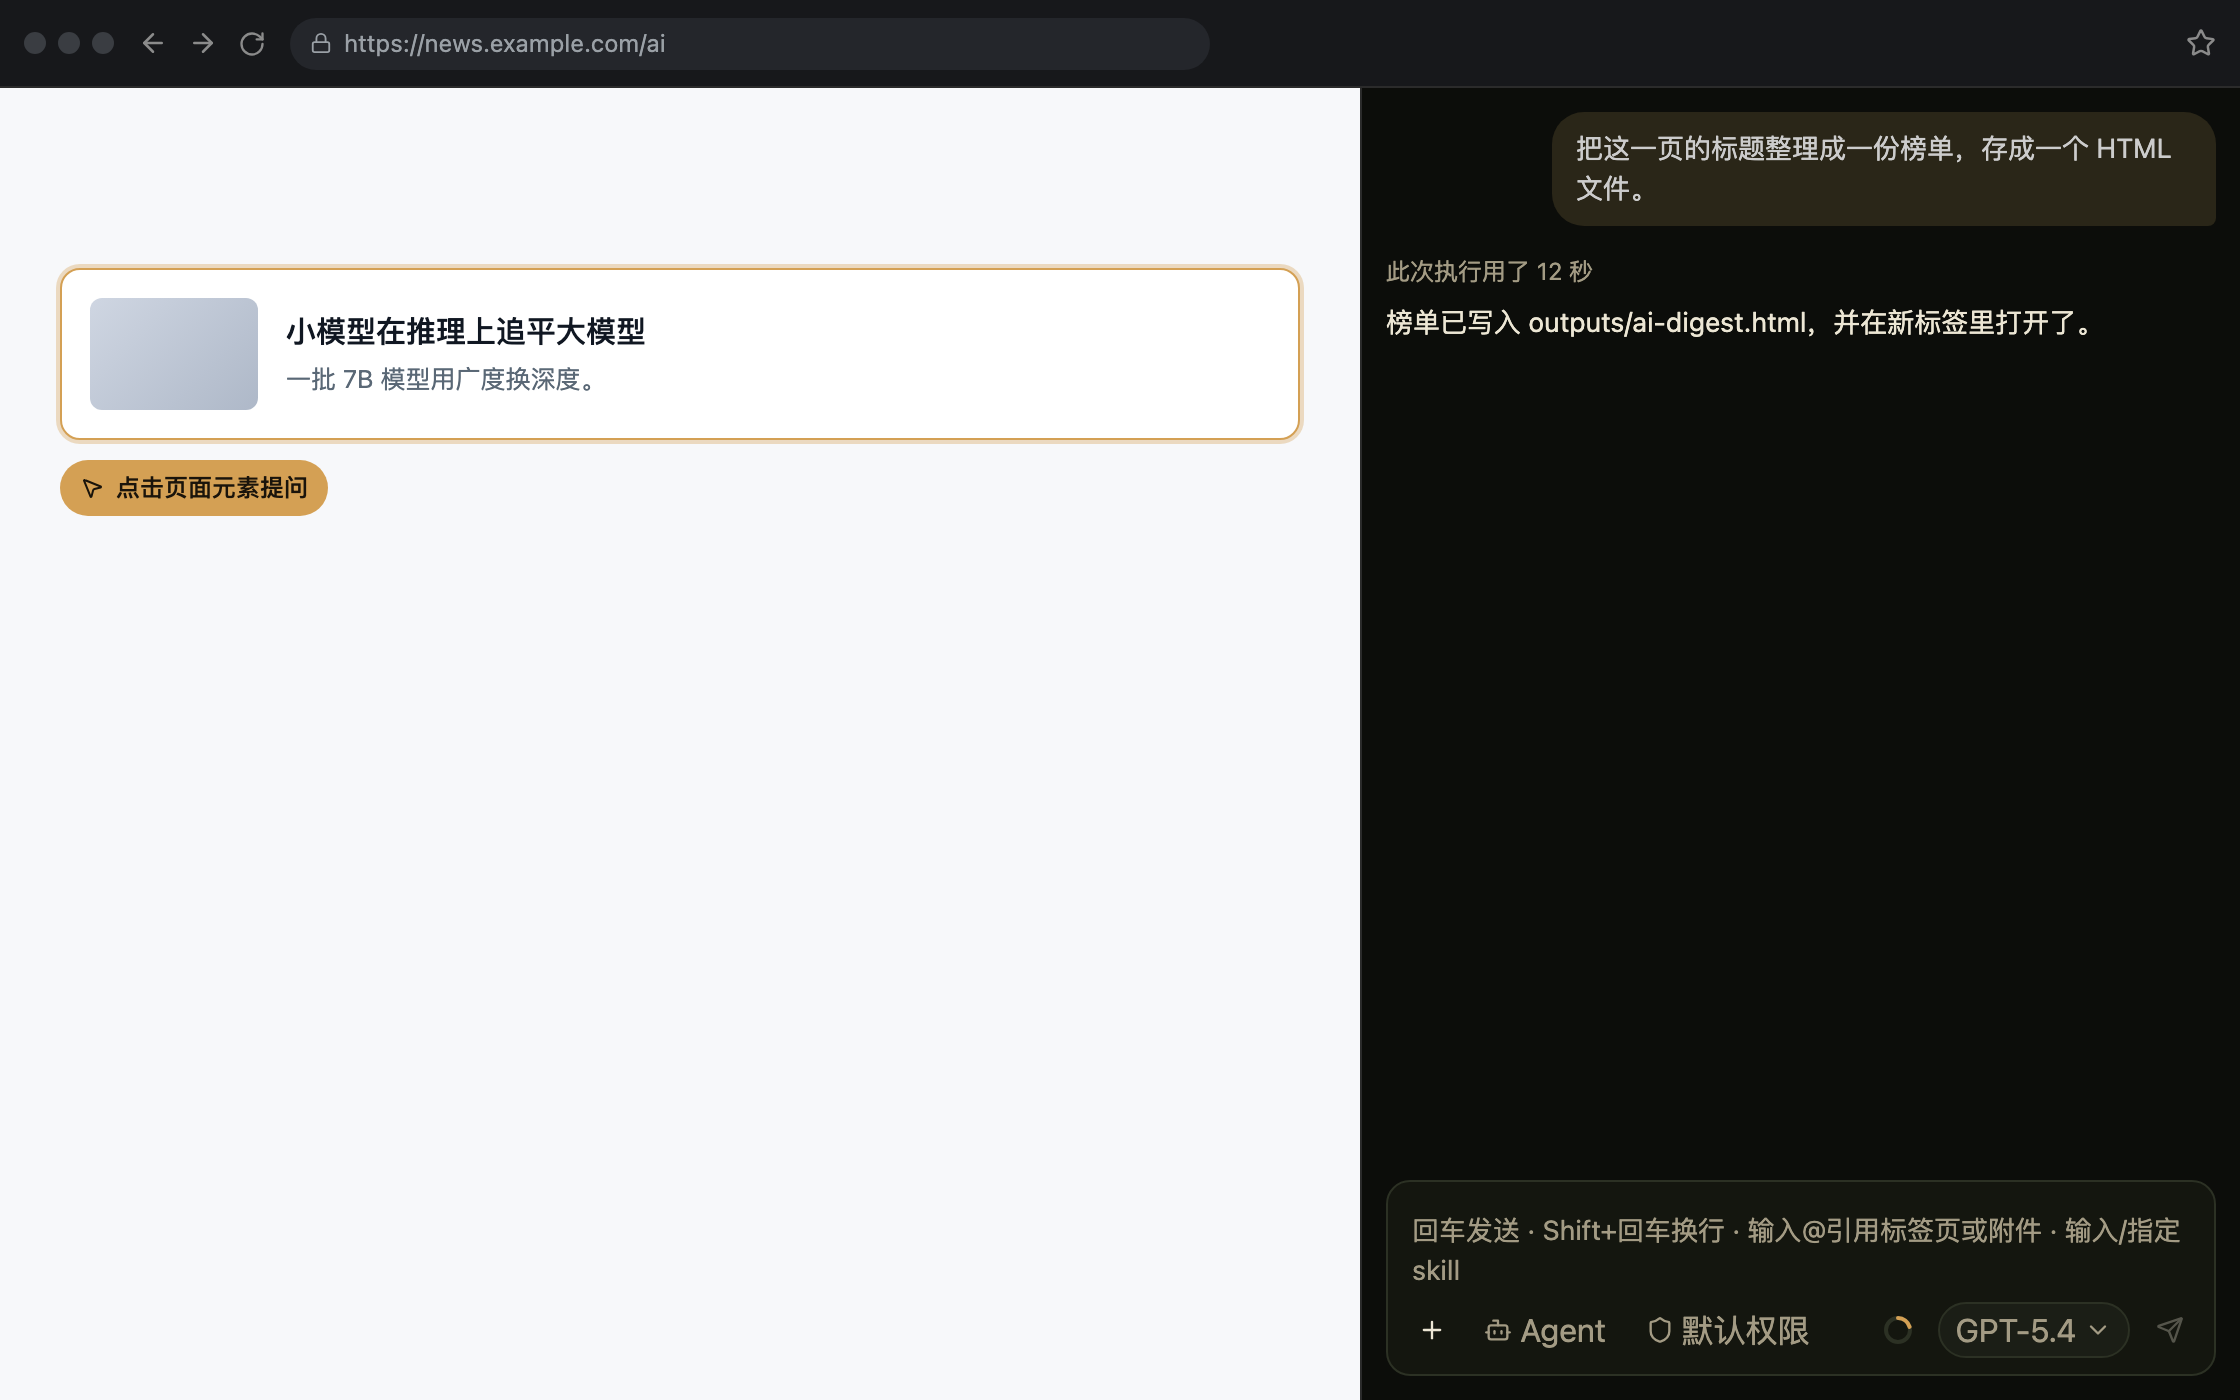
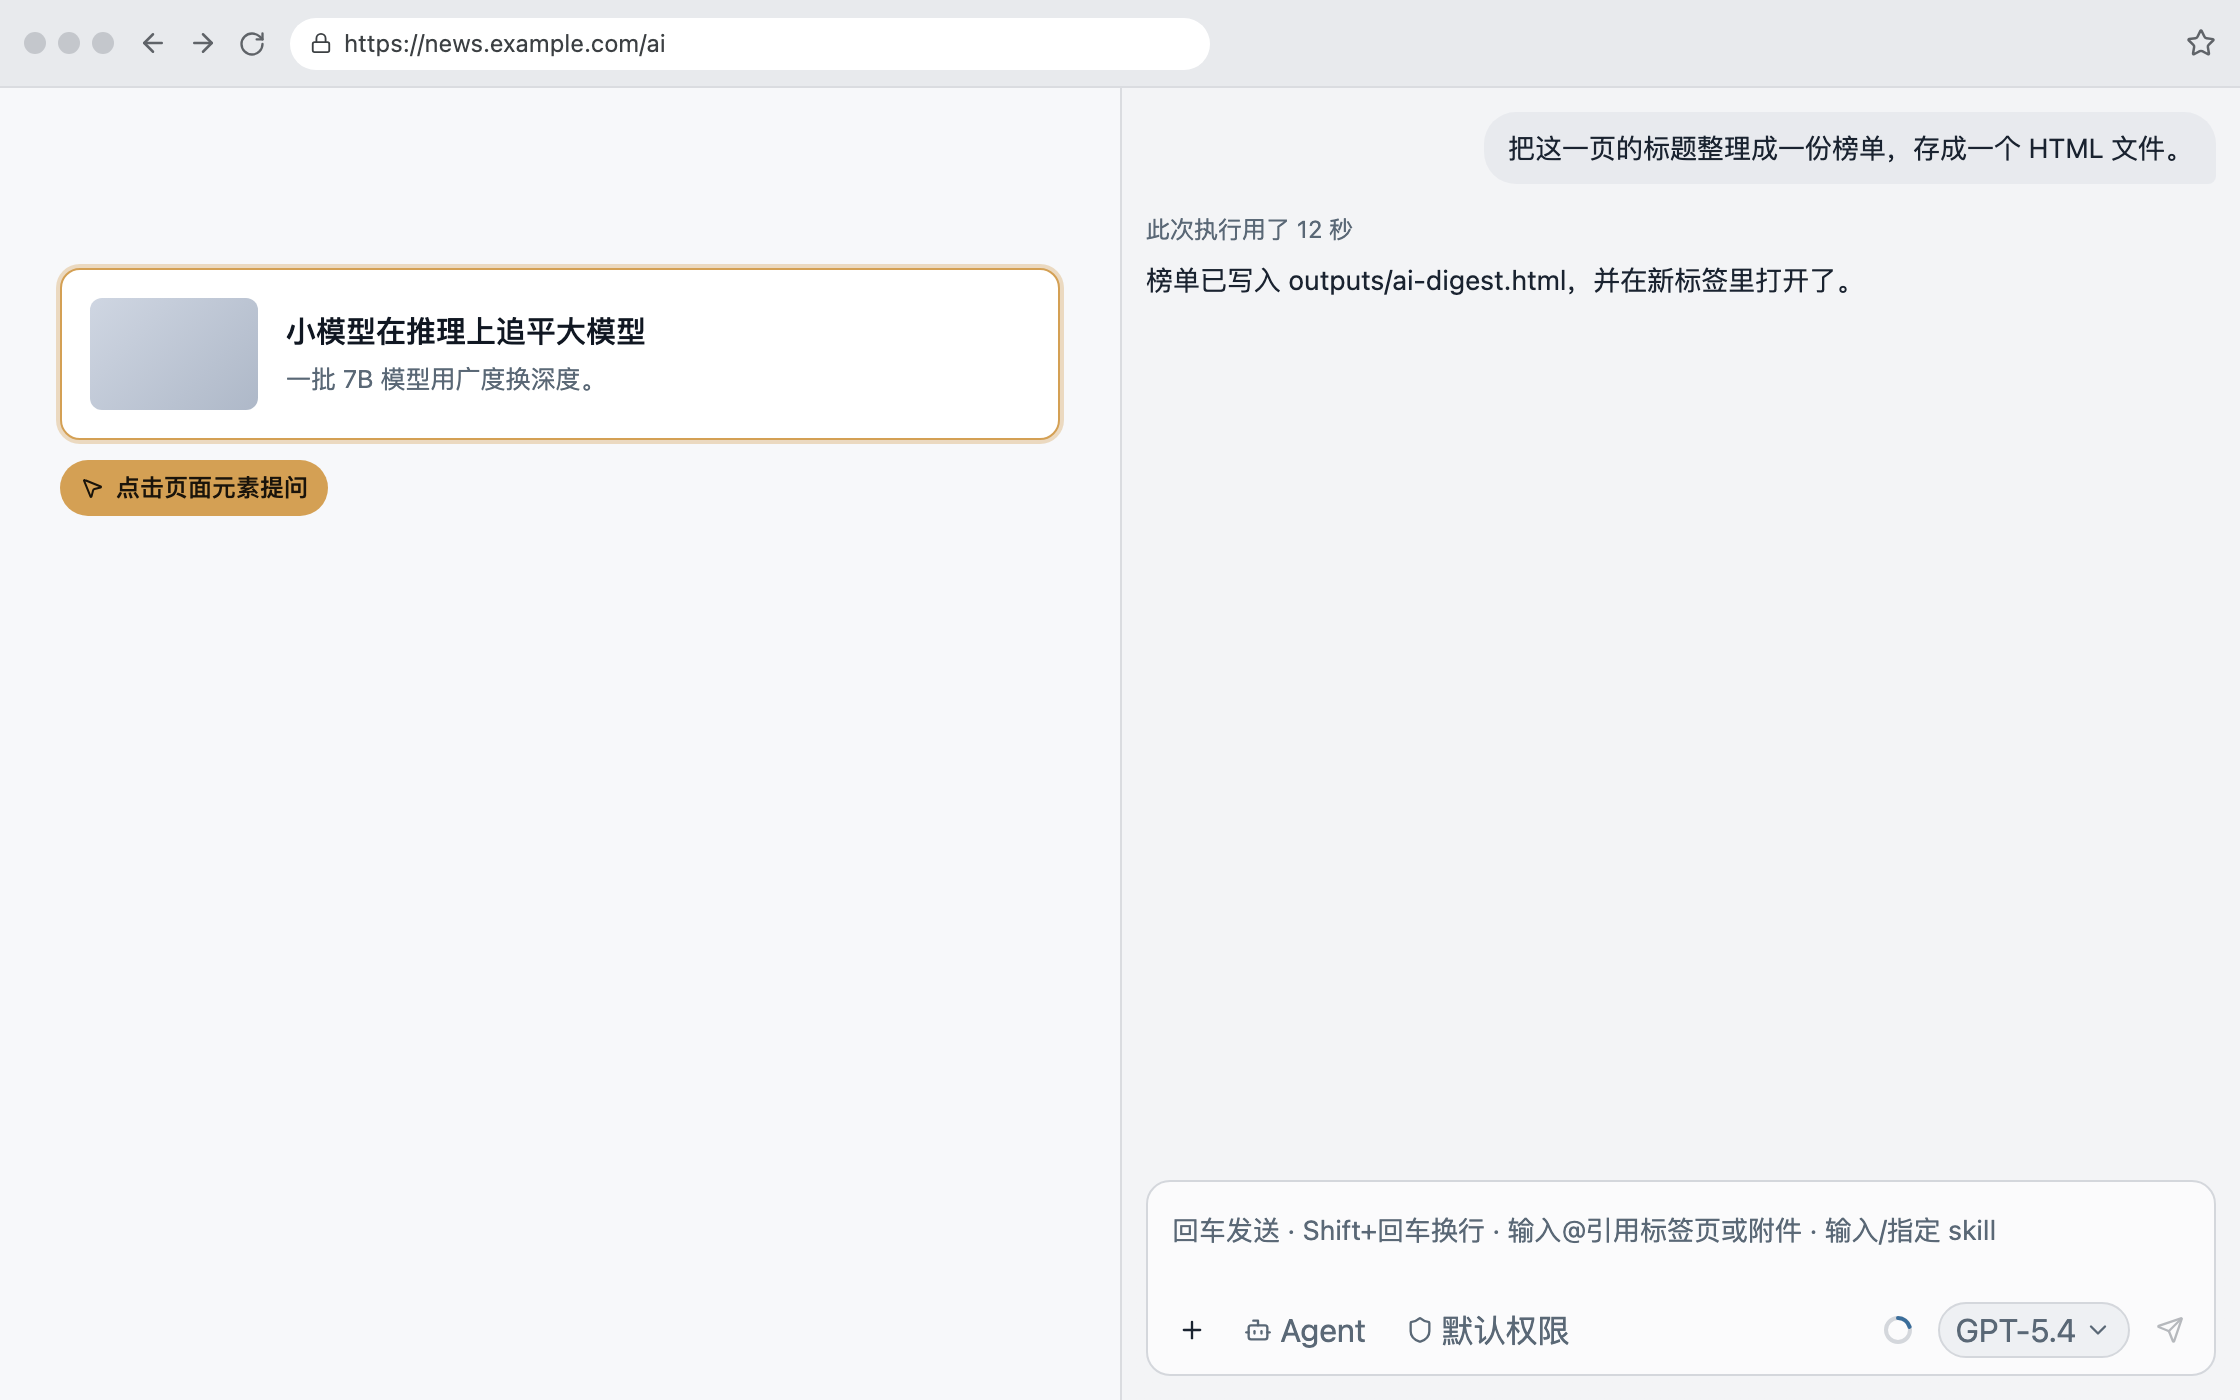
chore(readme): capture light-mode screenshots at 1:1
Widen the side panel to match the page (560px each) so the UI stops
truncating, and capture every scene in the light theme.

diff --git a/packages/extension/src/sidepanel/shots.tsx b/packages/extension/src/sidepanel/shots.tsx
@@ -20,7 +20,7 @@ import "./styles.css";
 const params = new URLSearchParams(location.search);
 const locale: Locale = params.get("lang") === "zh" ? "zh" : "en";
 applyLocale(locale);
-applyThemePreference("dark");
+applyThemePreference("light");
 
 const PAGE: CurrentPage = {
   tabId: 1,
@@ -305,8 +305,8 @@ const SHOT_CSS = `
   width: 1120px;
   height: 700px;
   overflow: hidden;
-  background: #1e1e1e;
-  color: #cccccc;
+  background: #f1f3f4;
+  color: #1a2330;
   font-family: ui-sans-serif, system-ui, sans-serif;
 }
 .shot-chrome {
@@ -316,29 +316,29 @@ const SHOT_CSS = `
   height: 44px;
   flex: none;
   padding: 0 12px;
-  background: #17181b;
-  border-bottom: 1px solid #2b2b2b;
+  background: #e8eaed;
+  border-bottom: 1px solid #dadce0;
 }
 .shot-dots { display: flex; gap: 6px; }
-.shot-dots span { width: 11px; height: 11px; border-radius: 999px; background: #3a3d42; }
-.shot-nav { display: flex; align-items: center; gap: 10px; color: #8b8b8b; }
+.shot-dots span { width: 11px; height: 11px; border-radius: 999px; background: #c4c7cc; }
+.shot-nav { display: flex; align-items: center; gap: 10px; color: #5f6368; }
 .shot-address {
   display: flex; align-items: center; gap: 6px;
   min-width: 0; flex: 0 1 460px;
   height: 26px; padding: 0 10px;
-  border-radius: 999px; background: #24262b;
-  color: #9aa0a6; font-size: 12px;
+  border-radius: 999px; background: #ffffff;
+  color: #3c4043; font-size: 12px;
 }
 .shot-address span { min-width: 0; overflow: hidden; text-overflow: ellipsis; white-space: nowrap; }
-.shot-chrome-right { margin-left: auto; display: flex; color: #8b8b8b; }
+.shot-chrome-right { margin-left: auto; display: flex; color: #5f6368; }
 .shot-body-row { display: flex; min-height: 0; flex: 1; }
-.shot-page-wrap { position: relative; min-width: 0; flex: 1; overflow: hidden; background: #f7f8fa; color: #1a2330; }
+.shot-page-wrap { position: relative; min-width: 0; flex: 1 1 50%; overflow: hidden; background: #f7f8fa; color: #1a2330; }
 .shot-panel {
-  width: 440px; flex: none;
+  width: 560px; flex: none;
   background: var(--ink);
-  border-left: 1px solid #2b2b2b;
-  --vscode-gitDecoration-addedResourceForeground: #8fbf6a;
-  --vscode-gitDecoration-deletedResourceForeground: #e07a5c;
+  border-left: 1px solid #dadce0;
+  --vscode-gitDecoration-addedResourceForeground: #2d7a62;
+  --vscode-gitDecoration-deletedResourceForeground: #b63d45;
 }
 .shot-page { padding: 22px 30px; }
 .shot-page-head { display: flex; align-items: center; justify-content: space-between; color: #5a6876; }
@@ -359,14 +359,15 @@ const SHOT_CSS = `
 .shot-toolbar {
   display: flex; gap: 4px; width: max-content; margin: 12px auto 0;
   padding: 4px; border-radius: 10px;
-  background: #1b1e16; box-shadow: 0 8px 24px rgba(0, 0, 0, 0.28);
+  background: #ffffff; box-shadow: 0 8px 24px rgba(16, 23, 34, 0.16);
+  border: 1px solid #e5e8ee;
 }
 .shot-toolbar button {
   display: inline-flex; align-items: center; gap: 5px;
   padding: 5px 10px; border: 0; border-radius: 7px;
-  background: transparent; color: #ece6d4; font-size: 12px; cursor: default;
+  background: transparent; color: #1a2330; font-size: 12px; cursor: default;
 }
-.shot-toolbar button:first-child { background: rgba(212, 160, 84, 0.18); color: #d4a054; }
+.shot-toolbar button:first-child { background: rgba(58, 109, 154, 0.14); color: #3a6d9a; }
 .shot-pick { position: absolute; inset: 0; padding: 90px 30px 0; background: #f7f8fa; }
 .shot-pick-card {
   display: flex; gap: 14px; align-items: center;

diff --git a/packages/extension/src/sidepanel/shots.html b/packages/extension/src/sidepanel/shots.html
@@ -1,5 +1,5 @@
 <!doctype html>
-<html lang="en" data-theme="dark">
+<html lang="en" data-theme="light">
   <head>
     <meta charset="UTF-8" />
     <meta name="viewport" content="width=device-width, initial-scale=1.0" />
